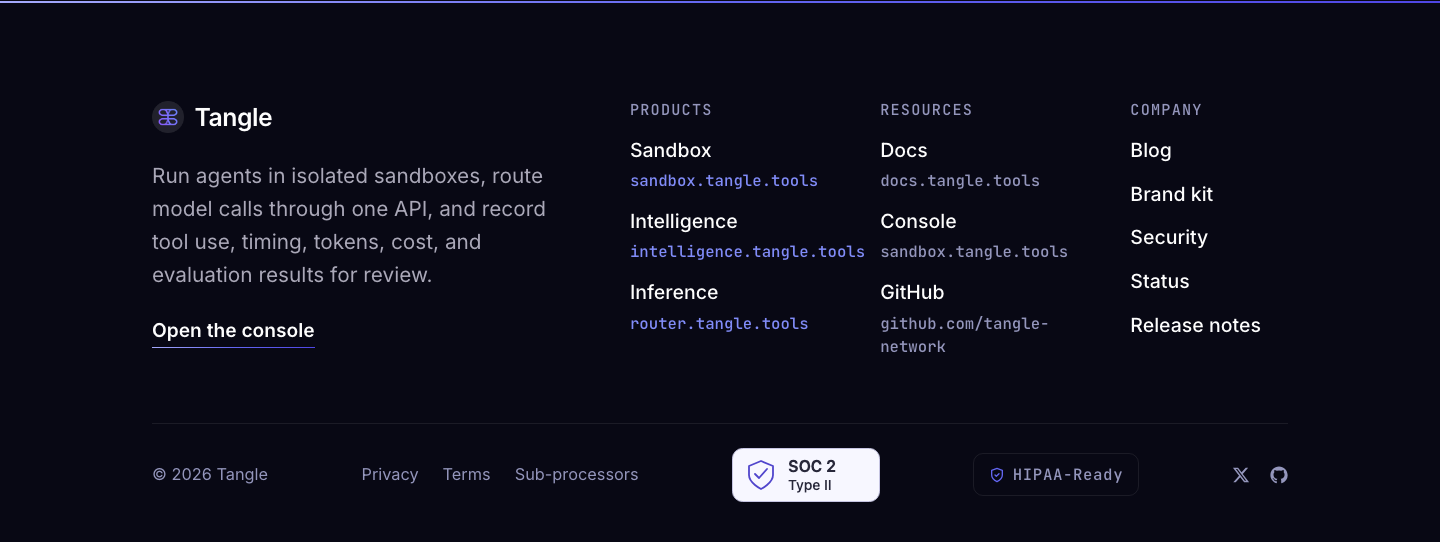
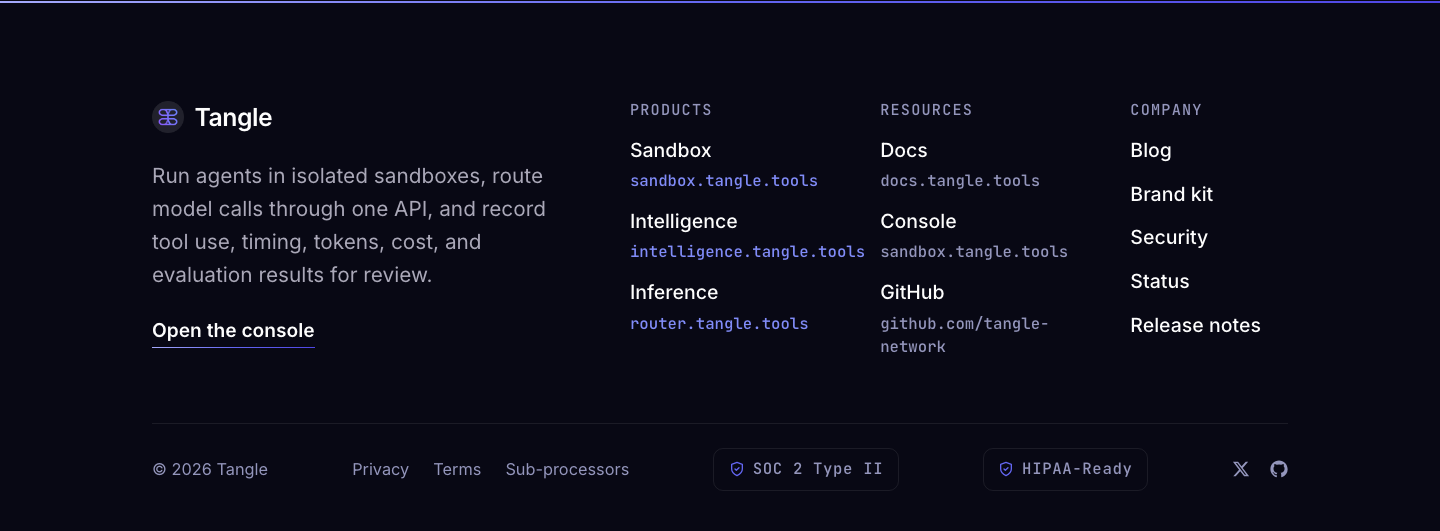
refactor(footer): consolidate SOC 2 badge into the compliance badge system
One badge system instead of two side by side: ComplianceBadge.astro gains
a product prop ({ product: 'hipaa' | 'soc2', status, href? }) matching the
contract the shared @tangle-network/ui component is landing, and the
footer's bespoke SOC 2 Type II image badge is replaced by
ComplianceBadge product='soc2' status='compliant' — accurate there because
SOC 2 Type II is an attained audit. The badge keeps the retired badge's
Vanta Trust Center link target.

src/data/compliance.ts generalizes the single status constant into
COMPLIANCE_BADGES, one obvious list to edit; removing an entry (or emptying
the list) turns a badge off. The HIPAA-Ready badge keeps its
/security/#hipaa link. The now-unused soc2-type-ii.svg asset is removed.

diff --git a/src/data/compliance.ts b/src/data/compliance.ts
@@ -1,14 +1,32 @@
-// Single switch for the public compliance badge in the footer.
+// Single source for the compliance badges shown in the footer. Edit this list
+// to change what the site claims; remove an entry (or empty the list) to turn
+// a badge off.
 //
-// There is no official HIPAA certification, and Tangle's launch gate has not
-// closed (vendor BAAs unsigned, infrastructure blockers ops-pending). The only
-// honest public state today is 'hipaa-ready'.
-//
-// - 'hipaa-ready':     technical protections exist; program still in progress.
-// - 'hipaa-compliant': reserved for legal sign-off after the launch gate
-//                      closes. Do not select this without an executed decision
-//                      record from the compliance program.
-// - 'off':             hide the badge entirely.
-export type ComplianceBadgeStatus = 'hipaa-ready' | 'hipaa-compliant' | 'off';
+// Copy discipline:
+// - There is no official HIPAA certification, and Tangle's launch gate has not
+//   closed (vendor BAAs unsigned, infrastructure blockers ops-pending). The
+//   only honest HIPAA status today is 'ready'. Do not set 'compliant' without
+//   an executed decision record from the compliance program.
+// - SOC 2 Type II is an attained audit (A-LIGN examination, report in
+//   issuance), so 'compliant' is accurate there.
+export type ComplianceBadgeProduct = 'hipaa' | 'soc2';
+export type ComplianceBadgeState = 'ready' | 'compliant';
 
-export const COMPLIANCE_BADGE_STATUS: ComplianceBadgeStatus = 'hipaa-ready';
+export interface ComplianceBadgeEntry {
+  product: ComplianceBadgeProduct;
+  status: ComplianceBadgeState;
+  href: string;
+}
+
+export const COMPLIANCE_BADGES: ComplianceBadgeEntry[] = [
+  {
+    product: 'soc2',
+    status: 'compliant',
+    href: 'https://app.vanta.com/tangle.tools/trust/kzhjp5g62vhwoalztadtz',
+  },
+  {
+    product: 'hipaa',
+    status: 'ready',
+    href: '/security/#hipaa',
+  },
+];

diff --git a/review-evidence/hipaa-ready-20261015/README.md b/review-evidence/hipaa-ready-20261015/README.md
@@ -3,12 +3,16 @@
 Captured 2026-10-15 from `pnpm preview` (port 4321) against the production
 build of `feat/hipaa-ready` via headless Chromium.
 
-- `footer-badge-1440.png` — footer legal row at 1440px: the HIPAA-Ready badge
-  sits beside the SOC 2 Type II badge and links to `/security/#hipaa`.
-- `footer-badge-390.png` — footer at 390px: badge wraps cleanly in the legal row.
+- `footer-badge-1440.png` — footer legal row at 1440px: one badge system.
+  `SOC 2 Type II` (links to the Vanta Trust Center, as the retired bespoke
+  badge did) and `HIPAA-Ready` (links to `/security/#hipaa`) both render from
+  `ComplianceBadge.astro`, driven by `COMPLIANCE_BADGES` in
+  `src/data/compliance.ts`.
+- `footer-badge-390.png` — footer at 390px: badges wrap cleanly in the legal row.
 - `security-hipaa-section-1440.png` — the HIPAA section on `/security/`,
   stating HIPAA-Ready status, the open launch gate, and the shipped
-  capabilities list.
+  capabilities list. The SOC 2 Type II attestation stays in the page intro;
+  it is not duplicated in the HIPAA section.
 
 The docs link (`https://docs.tangle.tools/gateway/hipaa`) resolves once the
 parallel docs PR (`feat/hipaa-guide` in tangle-docs) merges; it returned 404
